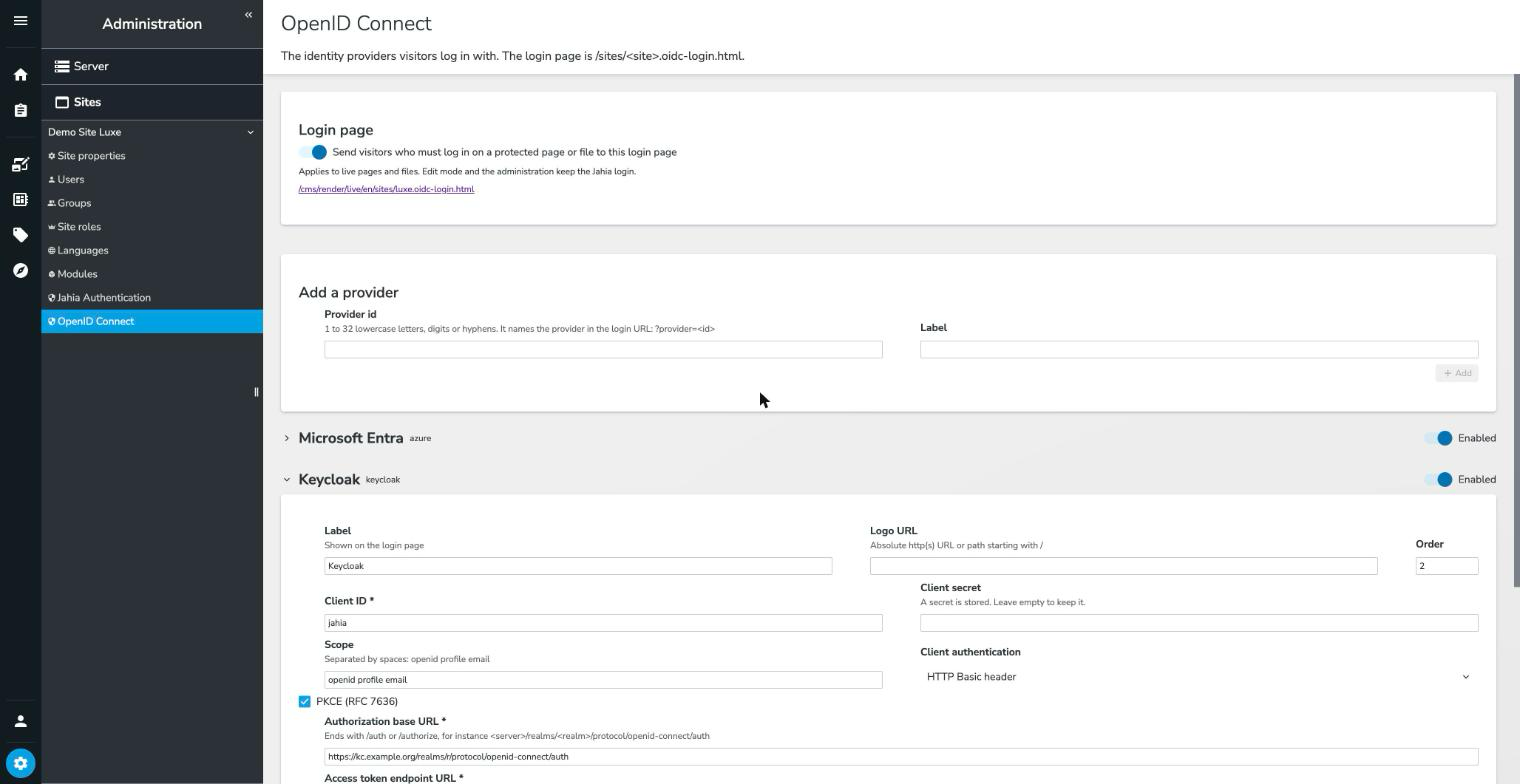
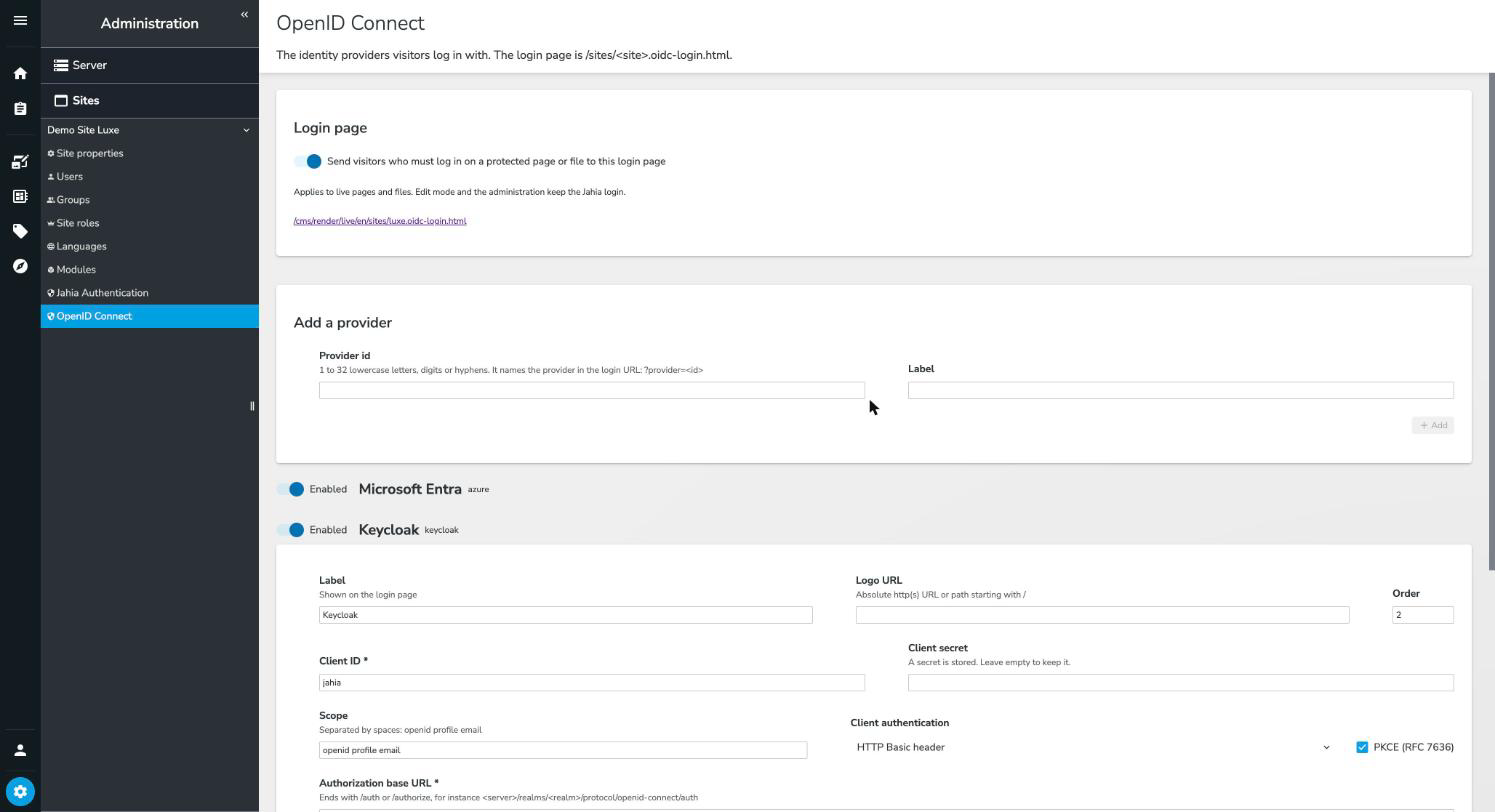
fix(admin): put the switch of a provider in place of its chevron

diff --git a/src/javascript/OidcProviders/OidcProvidersAdmin.jsx b/src/javascript/OidcProviders/OidcProvidersAdmin.jsx
@@ -2,7 +2,7 @@ import React, {useState} from 'react';
 import {useQuery} from '@apollo/client';
 import {useSelector} from 'react-redux';
 import {useTranslation} from 'react-i18next';
-import {ChevronDown, ChevronRight, Header, LayoutContent, Typography} from '@jahia/moonstone';
+import {Header, LayoutContent, Typography} from '@jahia/moonstone';
 import {GET_PROVIDERS} from './OidcProviders.gql';
 import {LoginPageSettings} from './LoginPageSettings';
 import {NewProviderForm} from './NewProviderForm';
@@ -49,17 +49,16 @@ export const OidcProvidersAdmin = () => {
                             <div key={provider.id} data-test="oidc-provider-card" data-provider={provider.id}>
                                 {/* Moonstone's Collapsible takes a text label only: the header holds the switch too */}
                                 <div className={styles.providerHeaderRow}>
+                                    <ProviderEnabledSwitch siteKey={siteKey} provider={provider} onChanged={refetch}/>
                                     <button type="button"
                                             className={styles.providerHeader}
                                             aria-expanded={isExpanded}
                                             aria-controls={`oidc-provider-${provider.id}`}
                                             onClick={() => setExpandedId(isExpanded ? null : provider.id)}
                                     >
-                                        {isExpanded ? <ChevronDown/> : <ChevronRight/>}
                                         <Typography variant="heading" weight="bold">{provider.label}</Typography>
                                         <Typography variant="caption">{provider.id}</Typography>
                                     </button>
-                                    <ProviderEnabledSwitch siteKey={siteKey} provider={provider} onChanged={refetch}/>
                                 </div>
                                 {/* Kept mounted while collapsed, so that unsaved changes survive */}
                                 <div id={`oidc-provider-${provider.id}`} hidden={!isExpanded}>

diff --git a/src/javascript/OidcProviders/ProviderForm.jsx b/src/javascript/OidcProviders/ProviderForm.jsx
@@ -139,8 +139,10 @@ export const ProviderForm = ({siteKey, language, provider, onSaved, onDeleted}) 
                                   data={authentications}
                                   onChange={(e, item) => change('authentication', item.value)}/>
                     </Field>
+                    <div className={styles.checkboxCell}>
+                        <CheckboxField providerId={providerId} name="withPKCE" label={t('label.field.withPKCE')} isChecked={form.withPKCE} onChange={change}/>
+                    </div>
                 </div>
-                <CheckboxField providerId={providerId} name="withPKCE" label={t('label.field.withPKCE')} isChecked={form.withPKCE} onChange={change}/>
 
                 {field('authorizationBaseUrl', t('label.field.authorizationBaseUrl'), {isRequired: true, helper: t('label.field.authorizationBaseUrlHelper')})}
                 {field('accessTokenEndpoint', t('label.field.accessTokenEndpoint'), {isRequired: true, helper: t('label.field.accessTokenEndpointHelper')})}

diff --git a/src/javascript/OidcProviders/OidcProviders.css b/src/javascript/OidcProviders/OidcProviders.css
@@ -7,7 +7,7 @@
 .row {
     display: flex;
     flex-wrap: wrap;
-    gap: var(--spacing-medium, 16px);
+    gap: var(--spacing-large, 24px);
     align-items: flex-end;
 }
 
@@ -19,6 +19,14 @@
     flex: 0 0 120px;
 }
 
+/* Centres the box on the inputs of the row, which a helper text pushes down */
+.row > .checkboxCell {
+    flex: 0 0 auto;
+    display: flex;
+    align-items: center;
+    min-height: 32px;
+}
+
 .actions {
     display: flex;
     justify-content: flex-end;
@@ -28,7 +36,7 @@
 .form {
     display: flex;
     flex-direction: column;
-    gap: var(--spacing-small, 8px);
+    gap: var(--spacing-large, 24px);
     padding: var(--spacing-medium, 16px) 0;
 }
 

diff --git a/README.md b/README.md
@@ -7,8 +7,8 @@ It relies on [jahia-authentication](https://github.com/Jahia/jahia-authenticatio
 Open **Administration > Sites > OpenID Connect** (`/jahia/administration/<siteKey>/jahia-oauth-oidc`). The page needs the permission `canSetupJahiaAuth` on the site.
 
 * **Add a provider** takes an id and a label. The id is 1 to 32 lowercase letters, digits or inner hyphens, and it names the provider in the login URL. The provider is created disabled.
-* The switch in the header of a provider turns it on or off at once. A provider whose settings are incomplete cannot be turned on.
-* Each provider opens on its settings, with its **Save**, **Mappers** and **Delete** buttons.
+* The switch in front of the name of a provider turns it on or off at once. A provider whose settings are incomplete cannot be turned on.
+* A click on the name of a provider opens its settings, with its **Save**, **Mappers** and **Delete** buttons.
 * **Label**, **Logo URL** and **Order** set how the login page shows the provider. The logo URL is an absolute http(s) URL or a path that starts with `/`.
 
 ![OpenID Connect administration](/docs/oidc-providers-admin.png "OpenID Connect administration")
